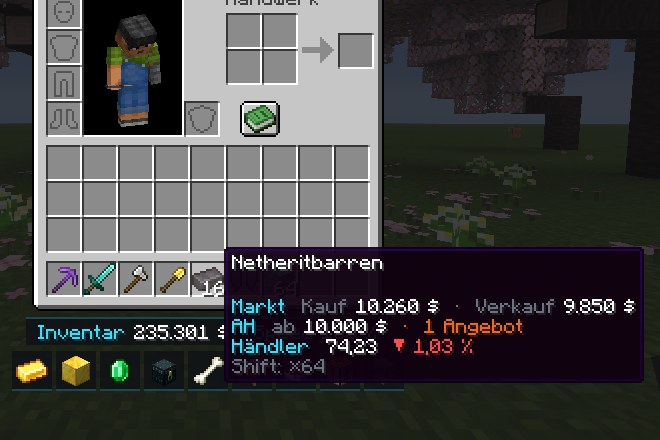
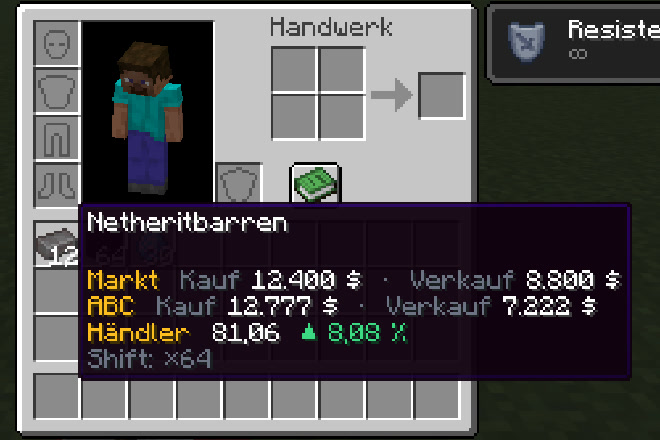
ChronoKit 2.0.58: SW-ABC-Preise im Tooltip (Gold) und 14 Mimi-Reittiere

diff --git a/chronokit.html b/chronokit.html
@@ -164,7 +164,8 @@
     background: #1a0b26; border: 2px solid #3b1a62; border-radius: 6px;
     padding: 10px 14px; font: 500 15px/1.35 var(--pixel); margin-top: 18px;
   }
-  .ticket .k { color: var(--cyan); }
+  .ticket .k { color: #FFBF1F; }
+  .ticket .up { color: #4ADE80; }
   .ticket .down { color: var(--red); }
 
   /* show gallery */
@@ -282,7 +283,7 @@
   <div class="stats">
     <div class="wrap">
       <div class="stat"><b>58</b><span>Shows beim Werkzeugwechsel</span></div>
-      <div class="stat"><b>67</b><span>Arten von Mimis</span></div>
+      <div class="stat"><b>93</b><span>Arten von Mimis</span></div>
       <div class="stat"><b>16</b><span>Fahrer in einem Gokart-Rennen</span></div>
       <div class="stat"><b>1</b><span>Taste für alles: <code>P</code></span></div>
     </div>
@@ -315,20 +316,22 @@
         <div class="text">
           <p class="label">Preise</p>
           <h3>Was ist das wert? Steht schon da.</h3>
-          <p>Fahr mit der Maus über ein Item und du siehst Markt und Auktionshaus auf einen Blick. Den Shardhändler-Kurs schaltest du dazu, wenn du willst.</p>
+          <p>Fahr mit der Maus über ein Item und du siehst Markt, den Allround-Shop bei /sw ABC und das Auktionshaus auf einen Blick. Den Shardhändler-Kurs schaltest du dazu, wenn du willst.</p>
           <div class="ticket" aria-label="Beispiel-Tooltip für einen Netheritbarren">
-            <span class="k">Markt</span><span>Kauf 10.260 $ · Verkauf 9.850 $</span>
+            <span class="k">Markt</span><span>Kauf 12.400 $ · Verkauf 8.800 $</span>
+            <span class="k">ABC</span><span>Kauf 12.777 $ · Verkauf 7.222 $</span>
             <span class="k">AH</span><span>ab 10.000 $</span>
-            <span class="k">Händler</span><span>74,23 <span class="down">▼ 1,03 %</span></span>
+            <span class="k">Händler</span><span>81,06 <span class="up">▲ 8,08 %</span></span>
           </div>
           <ul>
+            <li><b>Neu: SW-ABC-Preis</b> direkt unter dem Markt: was der Allround-Shop bei /sw ABC verlangt und zahlt, aus der Preisliste von Kn0cki</li>
             <li><b>Inventarwert</b> und Wert ganzer Kisten und Shulker</li>
             <li><b>Rezeptpreis</b>: was die Zutaten zusammen kosten</li>
             <li><b>Verkaufs-Tipp</b>: ob der Block oder die einzelnen Items mehr bringen</li>
             <li><b>Inhaltsvorschau</b> für Rucksack, Filter und Komprimierer</li>
           </ul>
         </div>
-        <div class="media"><div class="shot"><img src="/assets/chronokit/preis-netherit.jpg" alt="Tooltip eines Netheritbarrens mit Markt-, Auktionshaus- und Händlerpreis" width="660" height="440" loading="lazy"></div></div>
+        <div class="media"><div class="shot"><img src="/assets/chronokit/preis-netherit.jpg" alt="Tooltip eines Netheritbarrens mit Markt-, SW-ABC- und Händlerpreis, die Beschriftungen in Gold" width="660" height="440" loading="lazy"></div></div>
       </div>
 
       <div class="row flip">
@@ -563,7 +566,7 @@
           <h3>Mimis: Mini-Ichs, die mit dir unterwegs sind</h3>
           <p>Bis zu 40 Mimis mit eigenem Skin, eigener Größe, Flügeln, Hut und Ohren. Sie laufen, reiten, fliegen oder sitzen auf deinem Werkzeug, und andere Spieler mit ChronoKit sehen sie auch, wenn du das erlaubst.</p>
           <ul>
-            <li><b>79 Arten</b>: Drache, Besen, UFO, Happy Ghast, Engel, Pony, Gokart, Allay, Huckepack und mehr</li>
+            <li><b>93 Arten</b>: Drache, Besen, UFO, Happy Ghast, Engel, Pony, Gokart, Allay, Huckepack, Steckenpferd, Creeper, Endermännchen und mehr</li>
             <li>Sie <b>spielen miteinander</b>: High-Five, Tanzen, Ball, Fangen und kleine Szenen</li>
             <li><b>Mimi-Spiele</b>: Schere-Stein-Papier, Vier in einer Reihe, Mimi-Fußball, Tanz-Battle und Gokart, mit <b>Bestenliste</b>: Podest, Woche, Gesamt und deine eigenen Werte</li>
             <li>Einladen mit einem Klick auf den Namen im Chat</li>
@@ -637,6 +640,20 @@
           </ul>
         </div>
         <div class="media"><div class="shot"><img src="/assets/chronokit/mimis-am-koerper.jpg" alt="Spieler von schräg vorn: ein Mimi schaut aus der orangen Bauchtasche, ein zweites klammert am Bein, daneben fahren Mimis auf Einrad und Pogo-Stick" width="1188" height="669" loading="lazy"></div></div>
+      </div>
+
+      <div class="row" id="mimi-reittiere" style="margin-top:48px">
+        <div class="text">
+          <p class="label">Neu · Mimis</p>
+          <h3>Mimis auf Mini-Reittieren</h3>
+          <p>14 neue Arten: ein Steckenpferd und kleine Tiere und Monster, auf denen dein Mimi reitet. Alle im Kleinformat, alle in deinen eigenen Farben.</p>
+          <ul>
+            <li><b>Steckenpferd</b>: galoppiert neben dir her und bäumt sich auf, wenn du stehen bleibst</li>
+            <li><b>Tiere</b>: Kuh mit Pilzkuh, Schaf in Wunschfarbe, Esel mit Kisten und ein Hoglin-Ferkel</li>
+            <li><b>Monster in klein</b>: Creeper, der zischt und nur „Puff“ macht, Spinne, Skelettpferdchen, Endermännchen, Eisengolem mit Mohnblume, Magmawürfel, Lohe, Wärterchen und Breeze</li>
+          </ul>
+        </div>
+        <div class="media"><div class="shot"><img src="/assets/chronokit/mimis-reittiere.jpg" alt="Mimis auf ihren neuen Mini-Reittieren nebeneinander: Magmawürfel, Pilzkuh, Lohe, Creeper, Schaf, Eisengolem, Steckenpferd, Endermännchen, Spinne, Wärterchen, Esel, Hoglin, Breeze und Skelettpferdchen" width="1188" height="669" loading="lazy"></div></div>
       </div>
     </div>
   </section>
